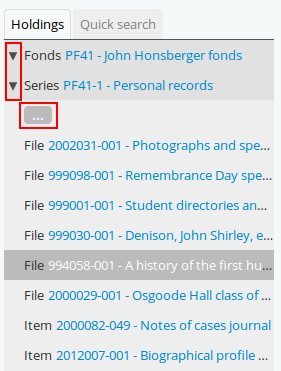
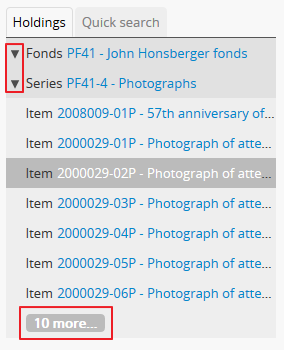
update context menu and treeview docs

diff --git a/user-manual/access-content/context-menu.rst b/user-manual/access-content/context-menu.rst
@@ -15,7 +15,7 @@ the record currently being viewed.
 In the default theme, the :term:`Dominion theme`, AtoM’s view and edit pages
 are  generally displayed in the :term:`user interface` in either a 2 or 3
 column  layout - the current record’s display data is presented in the central
-part of  the page, while the side column(s) are generally used to provide
+part of the page, while the side column(s) are generally used to provide
 additional options and further contextual information to enhance user
 orientation and navigation. These side columns make up the context menu.
 
@@ -32,89 +32,129 @@ Archival descriptions
    :width: 80%
    :alt: Context menu shown for archival description
 
-The context menu for an :term:`archival description` includes the following
-elements:
+The context menu for an :term:`archival description` can include the following
+elements, depending on some configuration options set by an
+:term:`administrator` via the application settings:
+
+**Left-hand context menu**
 
 1. The name/logo of the :term:`archival institution` which holds the resource
-   described (this may not appear in single repository installations).
+   described. For more information on linking an archival institution to an
+   archival description, see: :ref:`link-archival-institution`.
 
 2. The treeview (described in more detail :ref:`below <context-menu-treeview>`)
+   if it is set to display in the sidebar mode, and the Quick search box. In
+   the above image, the treeview is set to Full-width display, so only the Quick
+   search box is visible in the left-hand context menu (the full-width treeview
+   appears in the central body of the page). An :term:`administrator` can set
+   the treeview display mode via **Admin > Settings > Global** - see:
+   :ref:`treeview-type`. For more information on the Quick search, see:
+   :ref:`treeview-search`.
 
-3. Related :term:`subjects <subject>`, linking to descriptions with the same
-   subject as the resource described.
+3. If you have configured a custom sidebar menu with links to static pages,
+   these will appear on all archival description
+   :term:`view pages <view page>` below the Quick search and Treeview, in
+   addition to the home page. For more information, see:
+   :ref:`static-pages-menu`.
 
-4. Related people and organizations, including the :term:`creator` of the
-   resource described as well as an people or organizations who are the
-   :term:`subject` of the resource described. These link to the
-   :term:`authority record` for the person or organization.
+**Right-hand context menu**
 
-5. :term:`Physical storage` information.
+4. A link to add the current record to the Clipboard. For more information on
+   the Clipboard, see: **TO DO**
+
+5. The "Explore" section, which contains various ways to explore the current
+   :term:`archival unit`. These include:
+
+   * The reports module. For more information, see: :ref:`reports-printing`.
+   * If the inventory list is configured, and the current description has
+     descendants that match the configuration, a link to the Inventory list
+     will be present, allowing users to explore lower-level records in a
+     table-based list. For more information, see:
+     :ref:`browse-hierarchy-inventory`. For settings and configuration, see:
+     :ref:`inventory-settings`.
+   * The "Browse as list" option - for more information, see: :ref:`browse-hierarchy-list`.
+   * The "Browse digital objects" option - for more information, see:
+     :ref:`browse-hierarchy-digi-objects`.
+
+6. Import and Export options. For more information on import and export, see:
+   :ref:`import-export`.
+
+7. Finding aid generation options. For more information on generating and
+   using finding aids in AtoM, see: :ref:`print-finding-aids`.
+
+8. Related subject, name, genre, and place :term:`access point` terms that
+   have been linked to the :term:`archival description` currently displayed.
+   These include:
+
+   * Related :term:`subjects <subject>`, linking to descriptions with the same
+     subject as the resource described.
+   * Related people and organizations, including the :term:`creator` of the
+     resource described as well as an people or organizations who are the
+     subject of the resource described. These link to the
+     :term:`authority record` for the person or organization.
+   * Related genre access point terms, which indicate the types of materials
+     associated with the :term:`archival description`
+   * Related :term:`place` access points, linking to descriptions with the
+     same geographical location as the resource described.
+
+   For more information on adding an :term:`access point` to an archival
+   description, see: :ref:`add-term-fly`.
+
+9. :term:`Physical storage` information related to the archival description.
+   For more information on linking a physical storage location to an archival
+   description, see: :ref:`link-physical-storage`.
 
 .. TIP::
 
    :term:`Adminstrators <administrator>` can choose whether or not physical
-   storage information is visible to all users. See
-   :ref:`Physical storage <physical-storage>` for further information.
+   storage information is visible to all users, via the Visible elements
+   module. See  :ref:`physical-storage` and :ref:`visible-elements` for
+   further information.
 
 .. _context-menu-treeview:
 
 Treeview
 --------
 
-The treeview is a contextual and navigation element located in the context
-menu for :term:`archival descriptions <archival description>`, places, and
-subjects. It serves the dual purpose of showing a record or
-:term:`term's <term>` relationships to other records or terms in a hierarchy,
-as well as serving as a navigational tool.
+The treeview is a contextual and navigation element for
+:term:`archival descriptions <archival description>` or :term:`terms <term>`
+(such as :term:`place`, :term:`subject`, or genre :term:`access points <access point>`.
+It serves the dual purpose of showing a record or :term:`term's <term>`
+relationships to other records or terms in a hierarchy, as well as serving as a
+navigational tool. This section will focus on the Treeview as used for context
+and navigation in :term:`archival description` view pages - for more
+information on the Terms treeview, see: :ref:`context-menu-terms-treeview`.
 
-.. figure:: images/treeview-hierarchy.*
-   :align: right
-   :figwidth: 25%
+The treeview for archival descriptions has 2 ways of being displayed - either
+in the left-hand context menu (referred to as the sidebar treeview), or in a
+larger version in the main column of the :term:`view page` of an archival
+description. The display of the treeview can be controlled by an
+:term:`administrator` via a global setting - for more information, see:
+:ref:`treeview-type`.
+
+.. figure:: images/treeview-comparison.*
+   :align: center
+   :figwidth: 90%
    :width: 100%
-   :alt: Treeview showing the hierarchy of child-levels in a fonds.
+   :alt: A comparison of the full-width and sidebar treeview displays.
 
-   Treeview showing the hierarchy of child-levels in a fonds.
+   A comparison of the full-width and sidebar treeview displays.
 
-In the figure to the right, the record for a file is highlighted, showing the
-placement of the file in a hierarchy, e.g. what series and fonds does it
-belong to. In this example, the user is viewing File 994058-001 in a Series
-called "Personal records, in a fonds titled the "John Honsberger fonds." The
-treeview allows the user to see the current record's position in the
-collection hierarchy, and by clicking on the blue hyperlinked titles of other
-records, the user can navigate easily from one record to another contained in
-the same :term:`fonds` or :term:`collection`
+The specific features of each treeview display option will be outlined below.
 
-To navigate the fonds or series users can do the following:
+**Jump now to:**
 
-1. Click on a different file title to see that file level description. The
-   main archival description :term:`view page` will reload to display the
-   selected file-level record, which will now be highlighted in the treeview.
+* :ref:`context-menu-treeview-sidebar`
+* :ref:`context-menu-treeview-full`
 
-2. Click on the ellipses to expand more file descriptions not currently in
-   view.
-
-3. Click on the title of the series to read the series level descripton.
-   Again, the main archival description :term:`view page` will reload to display
-   the selected series-level record, which will now be highlighted in the
-   treeview.
-
-4. Click on the |caret| "caret" beside a description with children (e.g. the
-   series description in this example) to expand or collapse all the children
-   titles.
-
-5. Click on the title of the :term:`fonds` to read the fonds-level description,
-   which will also reload the :term:`view page` to display the selected fonds-
-   level description.
-
-As shown in this image, users can also click on the "Quick search" tab at
-the top of the treeview to search for titles and identifiers within the fonds
-or collection. For more information on using the Treeview quick search, see:
-:ref:`treeview-search`.
+Users can also click on the "Quick search" tab to search for desriptions
+within the current archival unit. For more information on using the Treeview
+quick search, see: :ref:`treeview-search`.
 
 .. image:: images/treeview-quicksearch.*
    :align: center
-   :width: 20%
-   :alt: The quick search box, located at the top of the treeview.
+   :width: 50%
+   :alt: The quick search box, located in the left context menu.
 
 :term:`Administrators <administrator>` can decide how they would like
 descriptions in the treeview to sort and display throughout their AtoM
@@ -128,7 +168,172 @@ more information, see:
 * :ref:`context-menu-terms-treeview`
 * :ref:`context-menu-results`
 
+.. _context-menu-treeview-sidebar:
 
+Sidebar treeview
+^^^^^^^^^^^^^^^^
+
+.. figure:: images/treeview-hierarchy.*
+   :align: right
+   :figwidth: 25%
+   :width: 100%
+   :alt: Treeview showing the hierarchy of child-levels in a fonds.
+
+   Sidebar treeview showing the hierarchy of child-levels in a fonds.
+
+In the figure to the right, the record for an item is highlighted, showing the
+placement of the file in a hierarchy, e.g. what series and fonds does it
+belong to. In this example, the user is viewing Item 2000029-02P in a Series
+called "Photographs," in a fonds titled the "John Honsberger fonds." The
+treeview allows the user to see the current record's position in the
+collection hierarchy, and by clicking on the blue hyperlinked titles of other
+records, the user can navigate easily from one record to another contained in
+the same :term:`fonds` or :term:`collection`.
+
+For performance reasons, AtoM may also not load all available descriptions in
+the current position of the hierarchy - for example, if you are browsing in a
+series with 20 descriptions, only the first 6-7 may display. In this case,
+AtoM will include an approximate count of remaining descriptions - clicking on
+this will load the next batch of available descriptions in the treeview. In
+the image on the right, there are approximately 10 more item-level
+descriptions in the "Photographs" series. After the first 2 times, a scrollbar
+will appear and the treeview will continue to load 4 more descriptions as the
+user scrolls lower in the treeview pane.
+
+When first arriving on the view page for a top-level description (e.g. a fonds
+or collection, etc), lower-level records with children will appear with a
+|caret| "caret" beside them to indicate that they contain children. In the
+treeview on the left in the image below, for example, the user is currently
+viewing the top-level fonds record for the John Honsberger fonds - the series
+below, each of which have children, are displayed. Clicking on a series title
+will reload the page and display that series. However, a user can also click
+directly on the caret to expand that series without leaving the current
+:term:`view page`. The treeview will reload without reloading the whole page,
+and sibling series will be hidden, as the lower-level item records are
+displayed for browsing. You could click the caret again to close the current
+series, and return to viewing all series below the fonds-level record.
+
+.. figure:: images/treeview-sidebar-states.*
+   :align: center
+   :figwidth: 60%
+   :width: 100%
+   :alt: Treeview states compared
+
+   Sidebar treeview states compared - browsing the series in a fonds (left),
+   then browsing the items in a series (right).
+
+**To navigate with the sidebar treeview, users can do the following:**
+
+1. Click on a different description title to see that description.
+   The main archival description :term:`view page` will reload to display the
+   selected record, which will now be highlighted in the treeview.
+
+2. Click on the approximate count button to expand more descriptions not
+   currently in view.
+
+3. Click on the |caret| "caret" beside a description with children (e.g. the
+   series description in this example) to expand or collapse all the children
+   titles.
+
+4. Click on the title of the :term:`fonds` to return to the fonds-level
+   description, which will also reload the :term:`view page` to display the
+   selected fonds-level description.
+
+.. _context-menu-treeview-full:
+
+Full-width treeview
+^^^^^^^^^^^^^^^^^^^
+
+.. figure:: images/treeview-full.*
+   :align: center
+   :figwidth: 90%
+   :width: 100%
+   :alt: An image of the full-width treeview
+
+   An example of the treeview when displayed in Full-width mode
+
+The full-width treeview, pictured above, has some notable differences from the
+older sidebar treeview. Most notably, it will allow users to browse all levels
+of description in the hierarchy of the :term:`archival unit` at one, while the
+sidebar treeview will only display siblings of the currently viewed level. By
+being positioned in the center of the page, it necessarily has more room - and
+a user can click and drag the bottom bar of the treeview to expand the viewing
+area further:
+
+.. figure:: images/treeview-full-expanded.*
+   :align: center
+   :figwidth: 90%
+   :width: 100%
+   :alt: Full-width treeview expanded by dragging the bottom bar
+
+   Click and drag the bottom bar of the full-width treeview viewing area to expand it
+
+The full-width treeview also supports keyboard navigation - use the up and
+down keys to navigate, and the left/right keys to expand or collapse
+descriptions with children.
+
+Basic indentation is used to better visually indicate the hierarchical
+relationships in the full-width treeview. When a description contains
+children, a **+** plus sign appears to the left of its title - click this (or
+use the right arrow key when the record is selected) to expand the children.
+The **-** minus sign can then be clicked (or the left arrow key used) to
+collapse the :term:`parent record` again.
+
+Basic icons are also used to help visually distinguish different levels. At
+present, these are hard-coded and cannot be changed without a
+:term:`developer` making changes in AtoM's code. The collection and
+fonds-level records will use the box icon; series, sub-series, and other
+intermediate levels use the folder icon, while file and item-level records use
+the document icon. If a user adds a new :term:`level of description` to the
+Levels of description :term:`taxonomy`, it will by default use the folder
+icon:
+
+.. figure:: images/treeview-lod.*
+   :align: center
+   :figwidth: 90%
+   :width: 100%
+   :alt: An image of the icons used at different levels in the full-width treeview
+
+   To help differentiate the levels at a glance, 3 different icons have been
+   used in the full-width treeview. New levels added to the Levels of
+   description taxonomy will use the folder icon by default.
+
+As different descriptions are selected in the full-width treeview, the
+description :term:`view page` will automatically update to display that
+record. When navigating with a keyboard, the view page will not update until
+the user presses the "enter" key to select the description for viewing.
+
+Like the sidebar treeview, the title and level of description are displayed
+for each node, and for authenticated (i.e. logged in) users, "(Draft)" will
+appear beside all draft descriptions displayed. Unlike the sidebar treeview,
+however, the identifier is **not** displayed in the treeview for each node.
+
+
+**To navigate with the full-width treeview, users can do the following:**
+
+1. Click on a different description title to see that description.
+   The main archival description :term:`view page` will reload to display the
+   selected record, which will now be highlighted in the treeview. When using
+   the keyboard to navigate, pressing enter will load the selected record in
+   the view page.
+
+2. Use the scroll bar or the up/down arrow keys to navigate up and down the
+   displayed records.
+
+3. Click on the **+** "plus" sign beside a description with children to expand
+   or collapse all the children titles. If navigating with the keyboard, the
+   right arrow can be used. Click on the **-** "minus" sign to collapse the
+   child records again, or use the left arrow key.
+
+4. Click and drag the bottom bar of the treeview viewing area to expand it
+
+.. SEEALSO::
+
+   * :ref:`context-menu-terms-treeview`
+   * :ref:`treeview-search`
+   * :ref:`sort-treeview`
+
+:ref:`Back to top <context-menu>`
 
 .. _context-menu-authorities:
 
